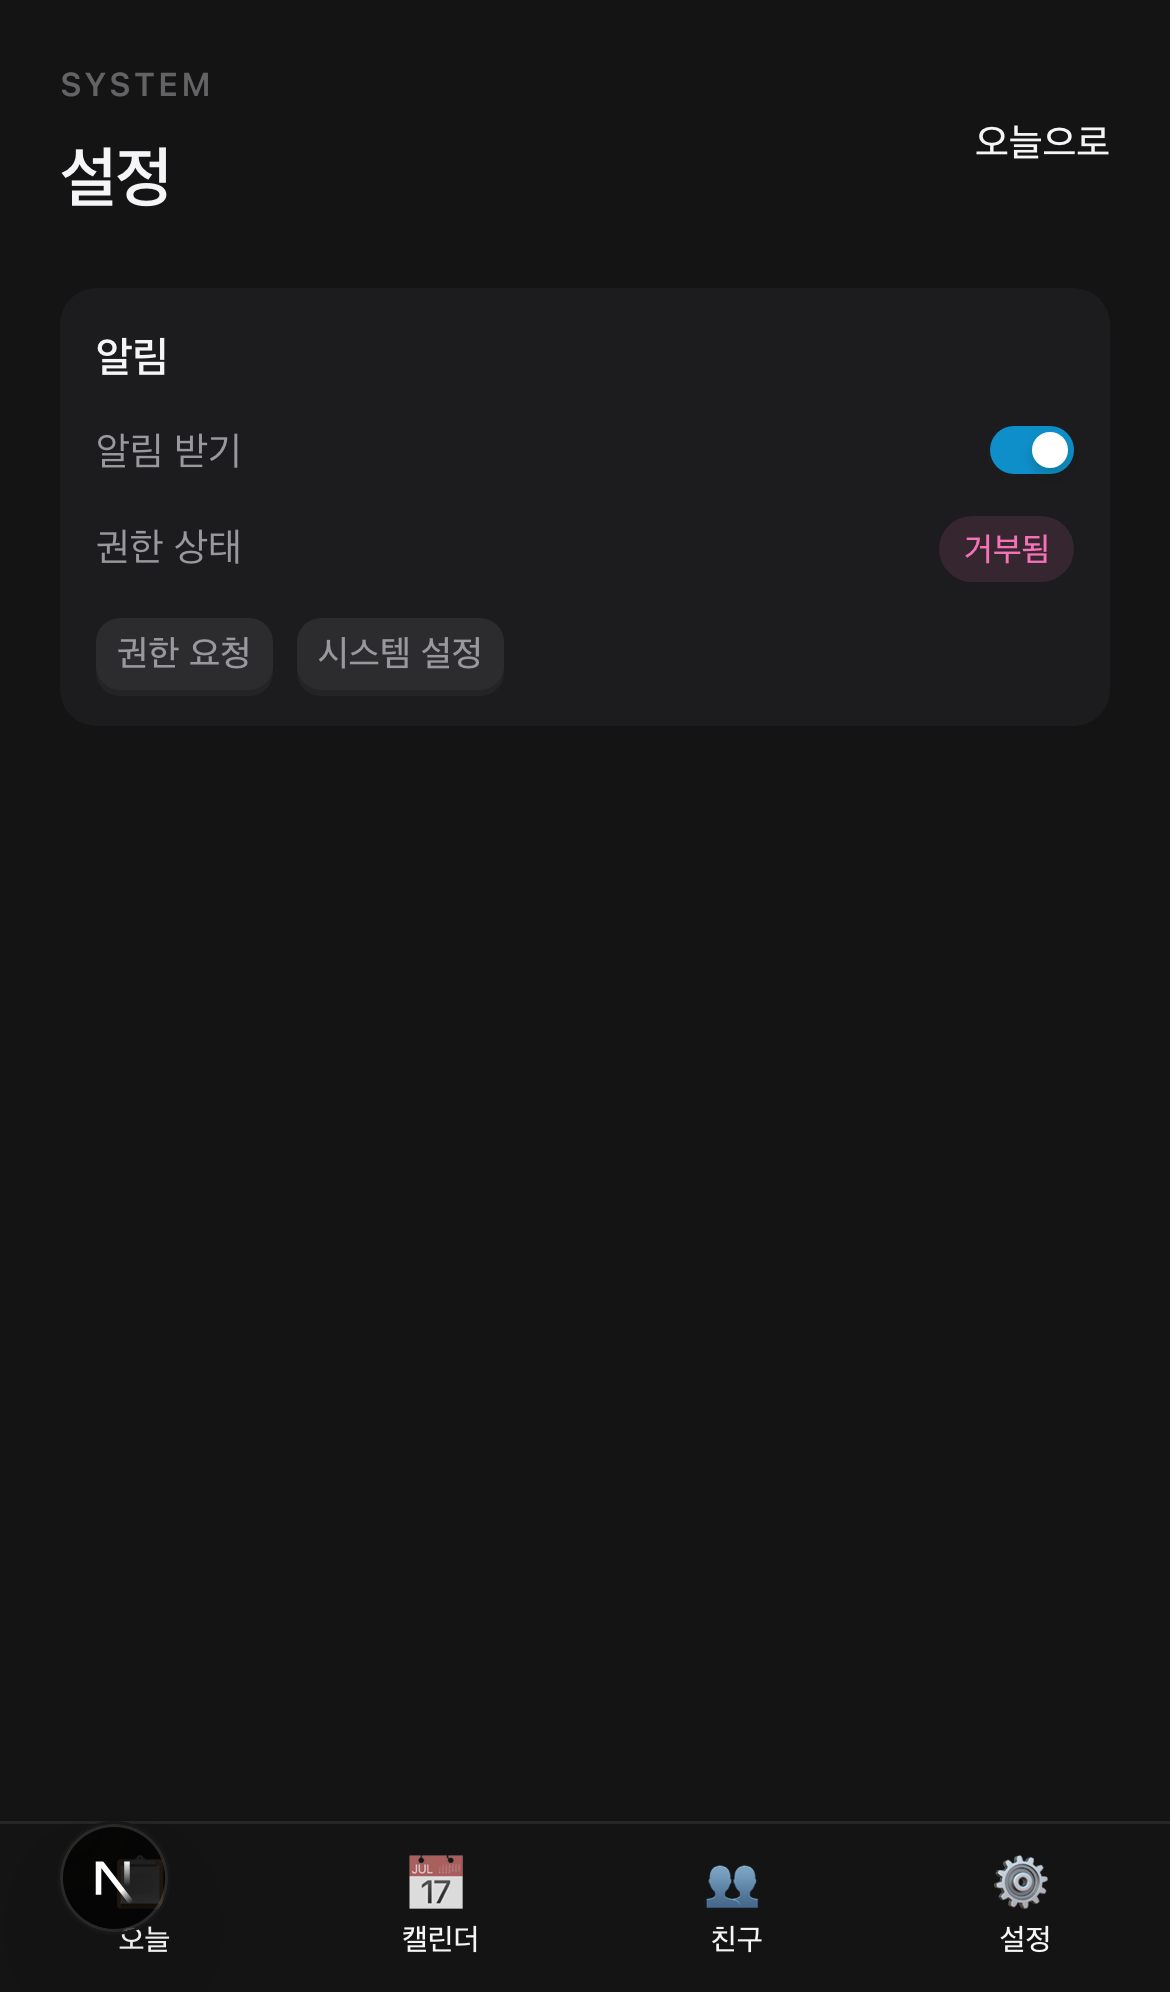
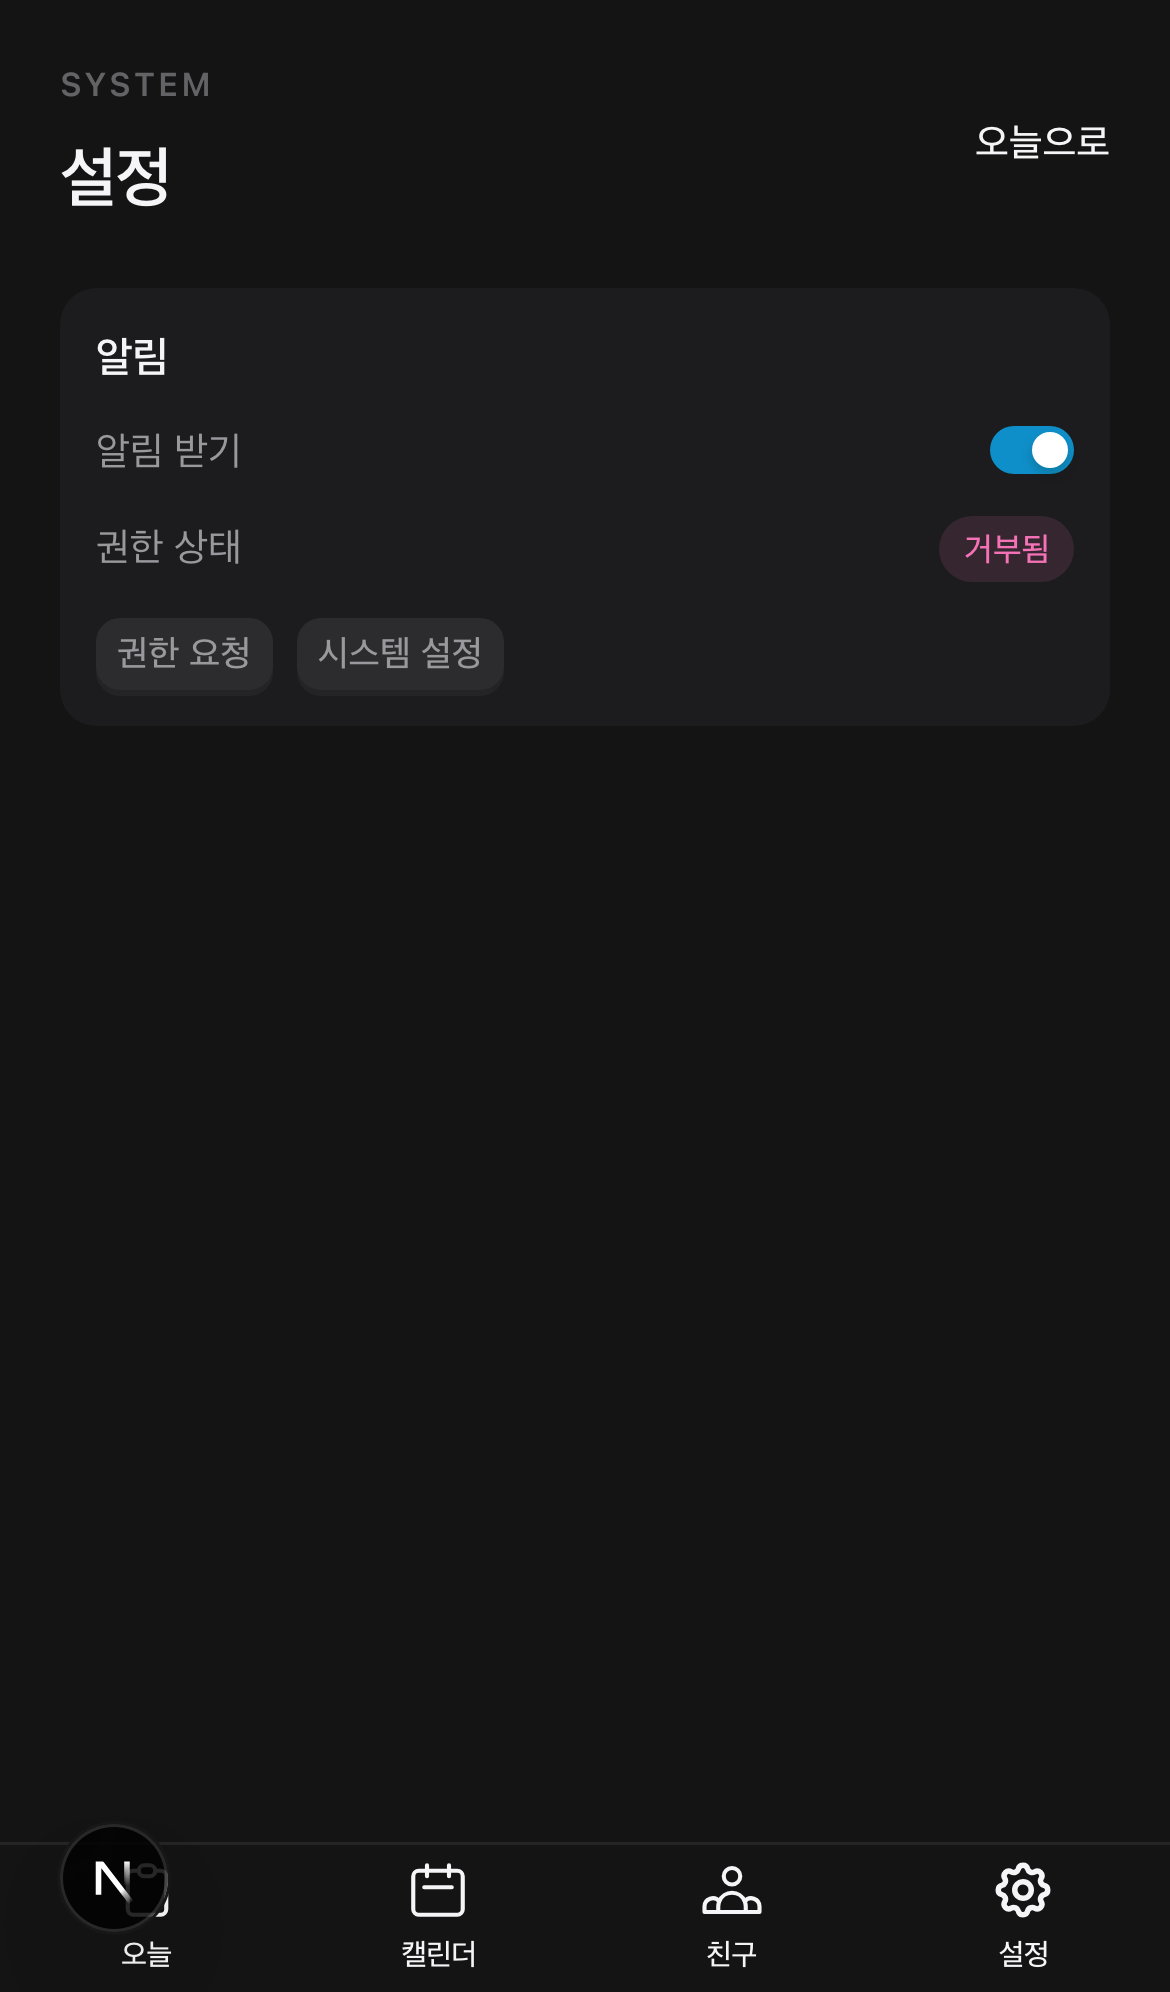
feat: 하단 네비 모던 디자인 + iOS/Android safe area 대응
- 이모지 아이콘 → SVG stroke 아이콘으로 변경
- 활성 탭: 굵은 stroke(2px), 비활성: 얇은 stroke(1.5px)
- iOS glass blur 효과 (backdrop-filter)
- env(safe-area-inset-bottom) 대응 — iPhone 홈 인디케이터 영역
- viewport-fit: cover 추가 (safe area 인식에 필수)
- PageShell 하단 패딩을 네비 높이 + safe area로 조정

diff --git a/apps/web/src/components/bottom-nav.tsx b/apps/web/src/components/bottom-nav.tsx
@@ -4,39 +4,95 @@ import Link from 'next/link';
 import { usePathname } from 'next/navigation';
 
 const NAV_ITEMS = [
-  { href: '/today', label: '오늘', icon: '📋' },
-  { href: '/calendar', label: '캘린더', icon: '📅' },
-  { href: '/friends', label: '친구', icon: '👥' },
-  { href: '/settings', label: '설정', icon: '⚙' },
+  { href: '/today', label: '오늘', icon: TodayIcon },
+  { href: '/calendar', label: '캘린더', icon: CalendarIcon },
+  { href: '/friends', label: '친구', icon: FriendsIcon },
+  { href: '/settings', label: '설정', icon: SettingsIcon },
 ] as const;
 
 export function BottomNav() {
   const pathname = usePathname();
 
-  // auth 페이지와 루트에서는 숨김
   if (pathname === '/auth' || pathname === '/') return null;
 
   return (
-    <nav className="fixed bottom-0 left-0 right-0 z-20 bg-ds-bg border-t border-ds-border">
-      <div className="max-w-[420px] mx-auto flex justify-around items-center h-[56px]">
+    <nav
+      className="fixed bottom-0 left-0 right-0 z-20"
+      style={{
+        paddingBottom: 'env(safe-area-inset-bottom, 0px)',
+        background: 'var(--ds-color-bg)',
+      }}
+    >
+      {/* Glass blur border */}
+      <div
+        className="absolute inset-0 border-t border-ds-border"
+        style={{
+          background: 'color-mix(in srgb, var(--ds-color-bg) 80%, transparent)',
+          backdropFilter: 'saturate(180%) blur(20px)',
+          WebkitBackdropFilter: 'saturate(180%) blur(20px)',
+        }}
+      />
+
+      <div className="relative max-w-[420px] mx-auto flex justify-around items-center h-[50px]">
         {NAV_ITEMS.map((item) => {
           const isActive = pathname === item.href;
+          const Icon = item.icon;
           return (
             <Link
               key={item.href}
               href={item.href}
               className={`
-                flex flex-col items-center gap-[2px] no-underline
-                transition-colors duration-150
-                ${isActive ? 'text-ds-accent' : 'text-ds-text-faint'}
+                flex flex-col items-center gap-[3px] no-underline
+                transition-all duration-200 ease-out
+                w-[64px] py-[6px] rounded-ds-md
+                ${isActive
+                  ? 'text-ds-accent'
+                  : 'text-ds-text-faint'
+                }
               `}
             >
-              <span className="text-[18px] leading-none">{item.icon}</span>
-              <span className="text-[10px] font-medium">{item.label}</span>
+              <Icon active={isActive} />
+              <span className="text-[10px] font-medium tracking-tight">{item.label}</span>
             </Link>
           );
         })}
       </div>
     </nav>
+  );
+}
+
+/* --- SVG Icons (24x24, stroke-based, modern) --- */
+
+function TodayIcon({ active }: { active: boolean }) {
+  return (
+    <svg width="22" height="22" viewBox="0 0 24 24" fill="none" strokeWidth={active ? 2 : 1.5} stroke="currentColor">
+      <path strokeLinecap="round" strokeLinejoin="round" d="M9 5H7a2 2 0 00-2 2v12a2 2 0 002 2h10a2 2 0 002-2V7a2 2 0 00-2-2h-2M9 5a2 2 0 002 2h2a2 2 0 002-2M9 5a2 2 0 012-2h2a2 2 0 012 2" />
+      {active && <path strokeLinecap="round" strokeLinejoin="round" d="M9 14l2 2 4-4" />}
+    </svg>
+  );
+}
+
+function CalendarIcon({ active }: { active: boolean }) {
+  return (
+    <svg width="22" height="22" viewBox="0 0 24 24" fill="none" strokeWidth={active ? 2 : 1.5} stroke="currentColor">
+      <path strokeLinecap="round" strokeLinejoin="round" d="M8 7V3m8 4V3m-9 8h10M5 21h14a2 2 0 002-2V7a2 2 0 00-2-2H5a2 2 0 00-2 2v12a2 2 0 002 2z" />
+    </svg>
+  );
+}
+
+function FriendsIcon({ active }: { active: boolean }) {
+  return (
+    <svg width="22" height="22" viewBox="0 0 24 24" fill="none" strokeWidth={active ? 2 : 1.5} stroke="currentColor">
+      <path strokeLinecap="round" strokeLinejoin="round" d="M17 20h5v-2a3 3 0 00-5.356-1.857M17 20H7m10 0v-2c0-.656-.126-1.283-.356-1.857M7 20H2v-2a3 3 0 015.356-1.857M7 20v-2c0-.656.126-1.283.356-1.857m0 0a5.002 5.002 0 019.288 0M15 7a3 3 0 11-6 0 3 3 0 016 0z" />
+    </svg>
+  );
+}
+
+function SettingsIcon({ active }: { active: boolean }) {
+  return (
+    <svg width="22" height="22" viewBox="0 0 24 24" fill="none" strokeWidth={active ? 2 : 1.5} stroke="currentColor">
+      <path strokeLinecap="round" strokeLinejoin="round" d="M10.325 4.317c.426-1.756 2.924-1.756 3.35 0a1.724 1.724 0 002.573 1.066c1.543-.94 3.31.826 2.37 2.37a1.724 1.724 0 001.066 2.573c1.756.426 1.756 2.924 0 3.35a1.724 1.724 0 00-1.066 2.573c.94 1.543-.826 3.31-2.37 2.37a1.724 1.724 0 00-2.573 1.066c-.426 1.756-2.924 1.756-3.35 0a1.724 1.724 0 00-2.573-1.066c-1.543.94-3.31-.826-2.37-2.37a1.724 1.724 0 00-1.066-2.573c-1.756-.426-1.756-2.924 0-3.35a1.724 1.724 0 001.066-2.573c-.94-1.543.826-3.31 2.37-2.37.996.608 2.296.07 2.572-1.065z" />
+      <path strokeLinecap="round" strokeLinejoin="round" d="M15 12a3 3 0 11-6 0 3 3 0 016 0z" />
+    </svg>
   );
 }

diff --git a/apps/web/src/components/ui/design-system.css b/apps/web/src/components/ui/design-system.css
@@ -94,7 +94,7 @@
   /* Semantic spacing — layout rhythm */
   --ds-space-page-x: 20px;
   --ds-space-page-top: 20px;
-  --ds-space-page-bottom: 48px;
+  --ds-space-page-bottom: calc(70px + env(safe-area-inset-bottom, 0px));
   --ds-space-section-gap: 20px;
   --ds-space-card-gap: 12px;
   --ds-space-card-x: 12px;

diff --git a/apps/web/src/app/layout.tsx b/apps/web/src/app/layout.tsx
@@ -24,6 +24,7 @@ export const viewport: Viewport = {
   initialScale: 1,
   maximumScale: 1,
   userScalable: false,
+  viewportFit: 'cover',
 };
 
 export default function RootLayout({
